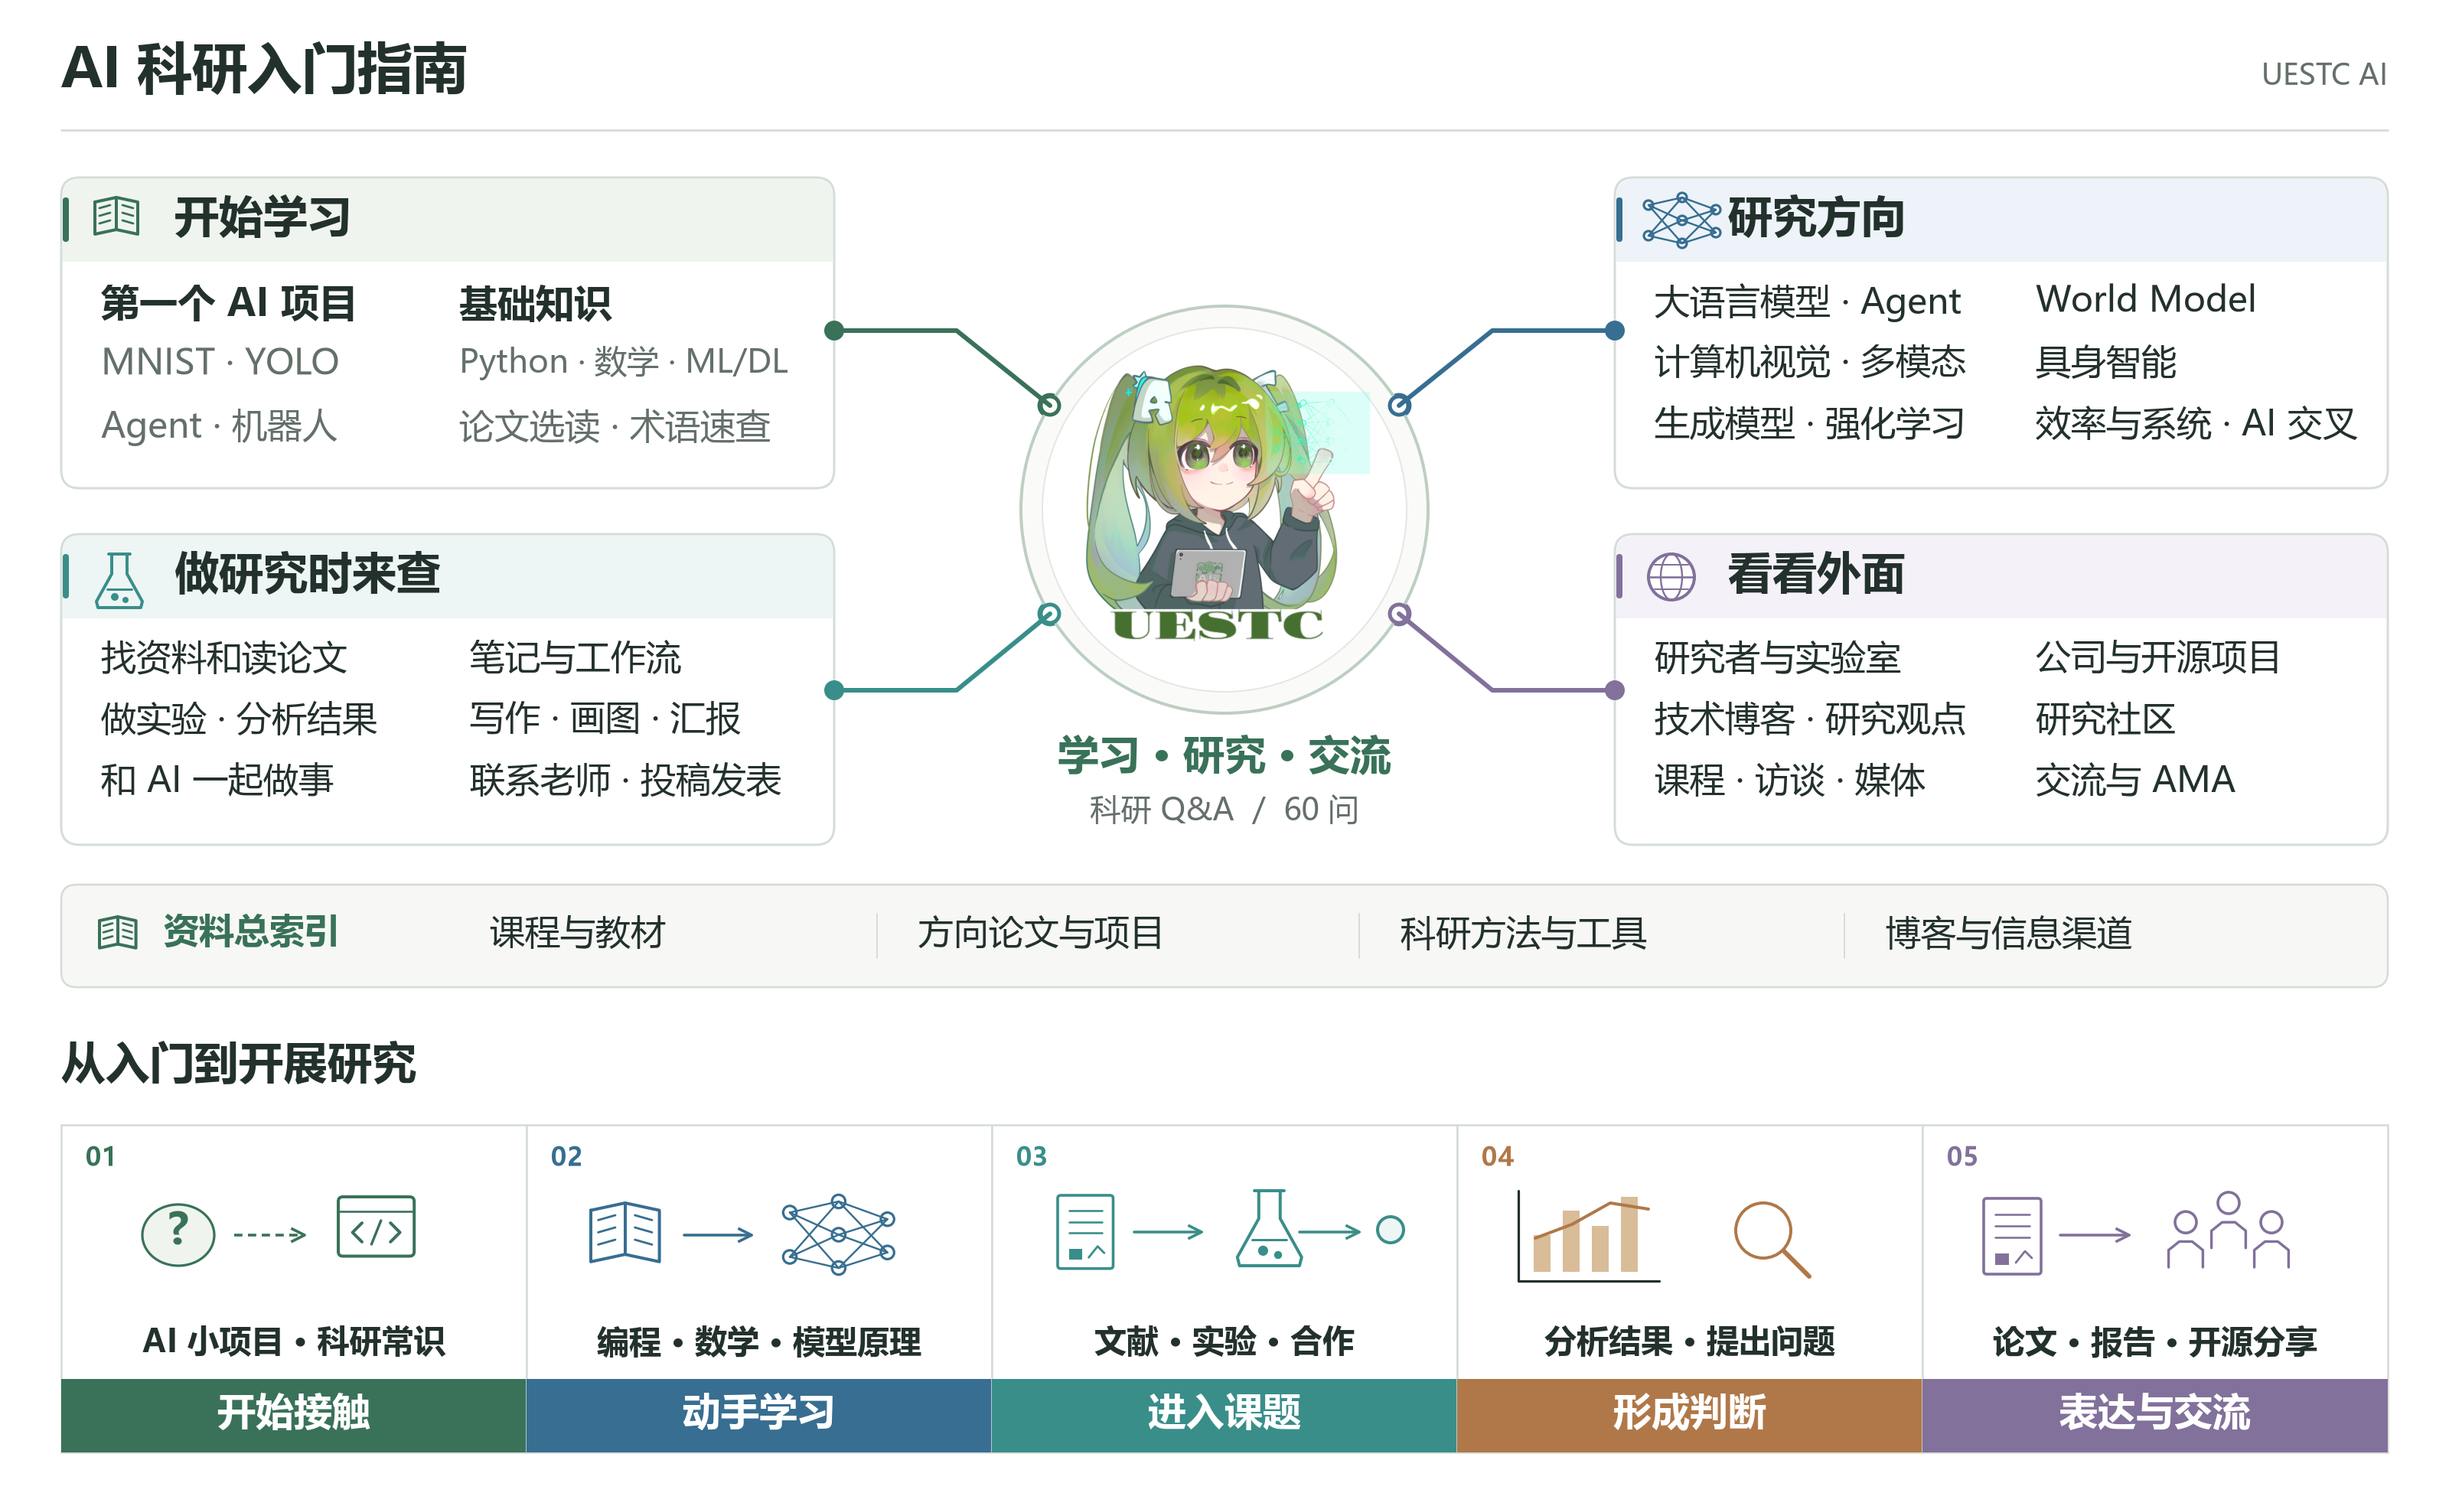
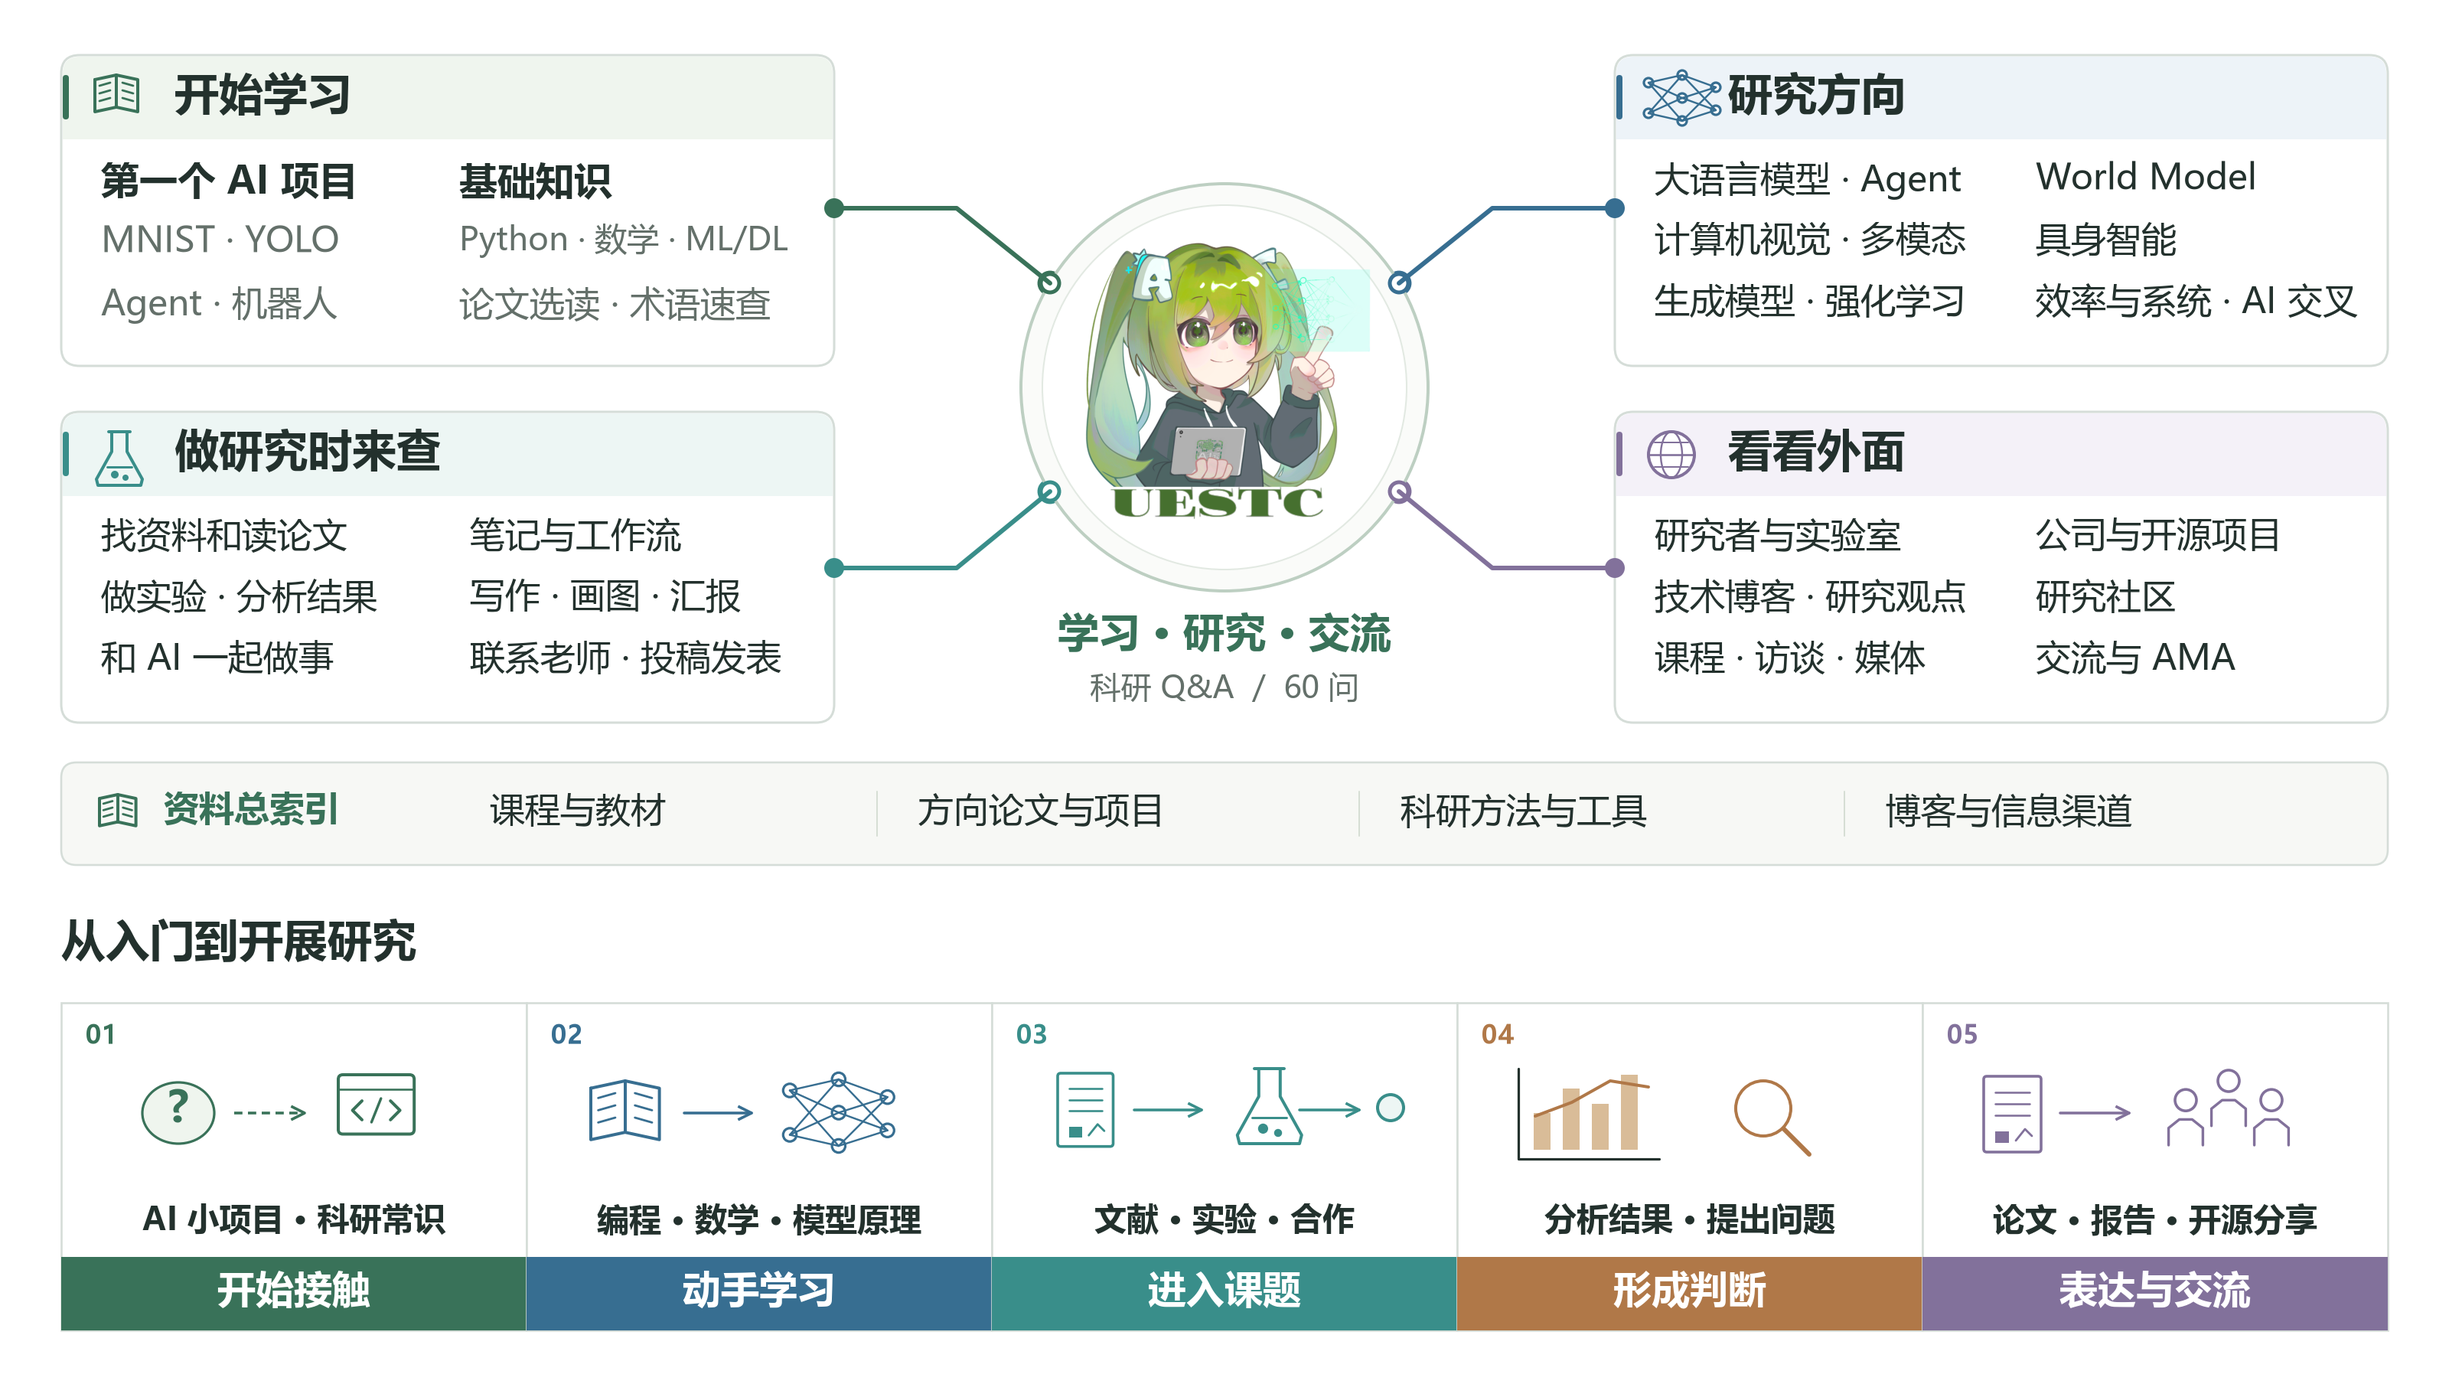
Remove repeated heading from homepage overview

diff --git a/content/guide/uestc/zh/home.md b/content/guide/uestc/zh/home.md
@@ -2,7 +2,7 @@
 
 各位同学，欢迎来到 UESTC AI 社的入门指南。如果你对 AI 和科研感兴趣，却还不知道从哪里开始入门；或者已经开始参与项目或规划找课题组，却不知道怎么联系老师，对接工作；或者已经加入了自己的课题组，但是仍然对想 idea、推进工作感到迷茫。我们希望这份指南能够帮助到你。
 
-<figure class="resource-figure guide-overview"><a href="../../../public/blog/guide/figures/uestc/home/guide-overview.png" target="_blank" rel="noopener"><img src="../../../public/blog/guide/figures/uestc/home/guide-overview.webp" width="1600" height="984" alt="指南全览：开始学习、研究方向、做研究时来查、看看外面与资料索引；从初次接触、动手学习，到进入课题、形成判断和表达交流。" decoding="async" fetchpriority="high"></a></figure>
+<figure class="resource-figure guide-overview"><a href="../../../public/blog/guide/figures/uestc/home/guide-overview.png?v=2" target="_blank" rel="noopener"><img src="../../../public/blog/guide/figures/uestc/home/guide-overview.webp?v=2" width="1600" height="904" alt="指南全览：开始学习、研究方向、做研究时来查、看看外面与资料索引；从初次接触、动手学习，到进入课题、形成判断和表达交流。" decoding="async" fetchpriority="high"></a></figure>
 
 ## 从哪里开始
 
